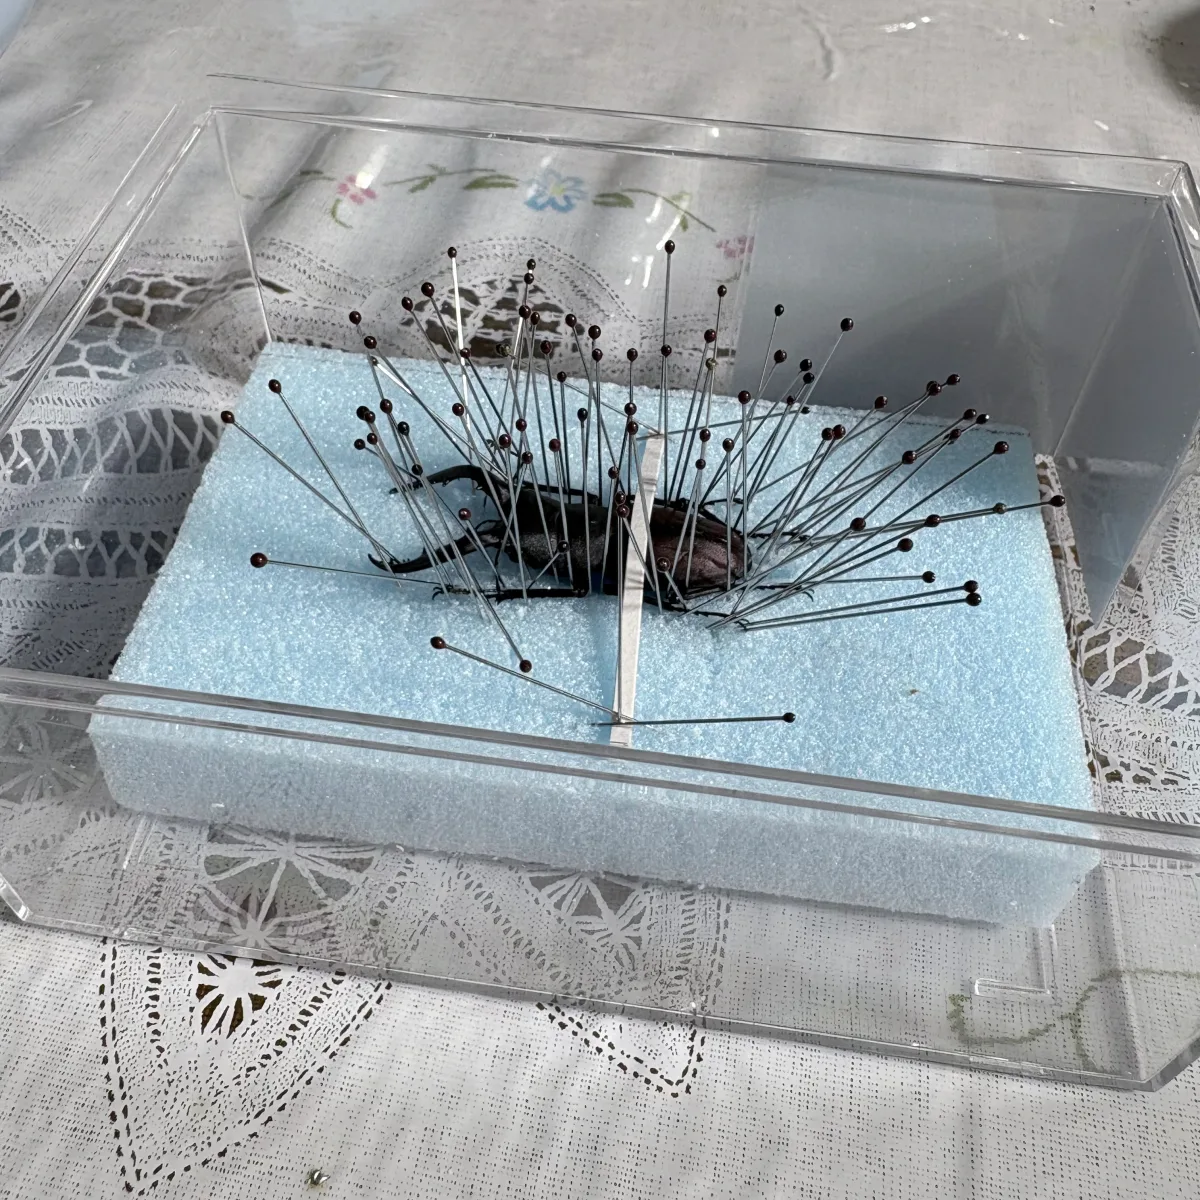
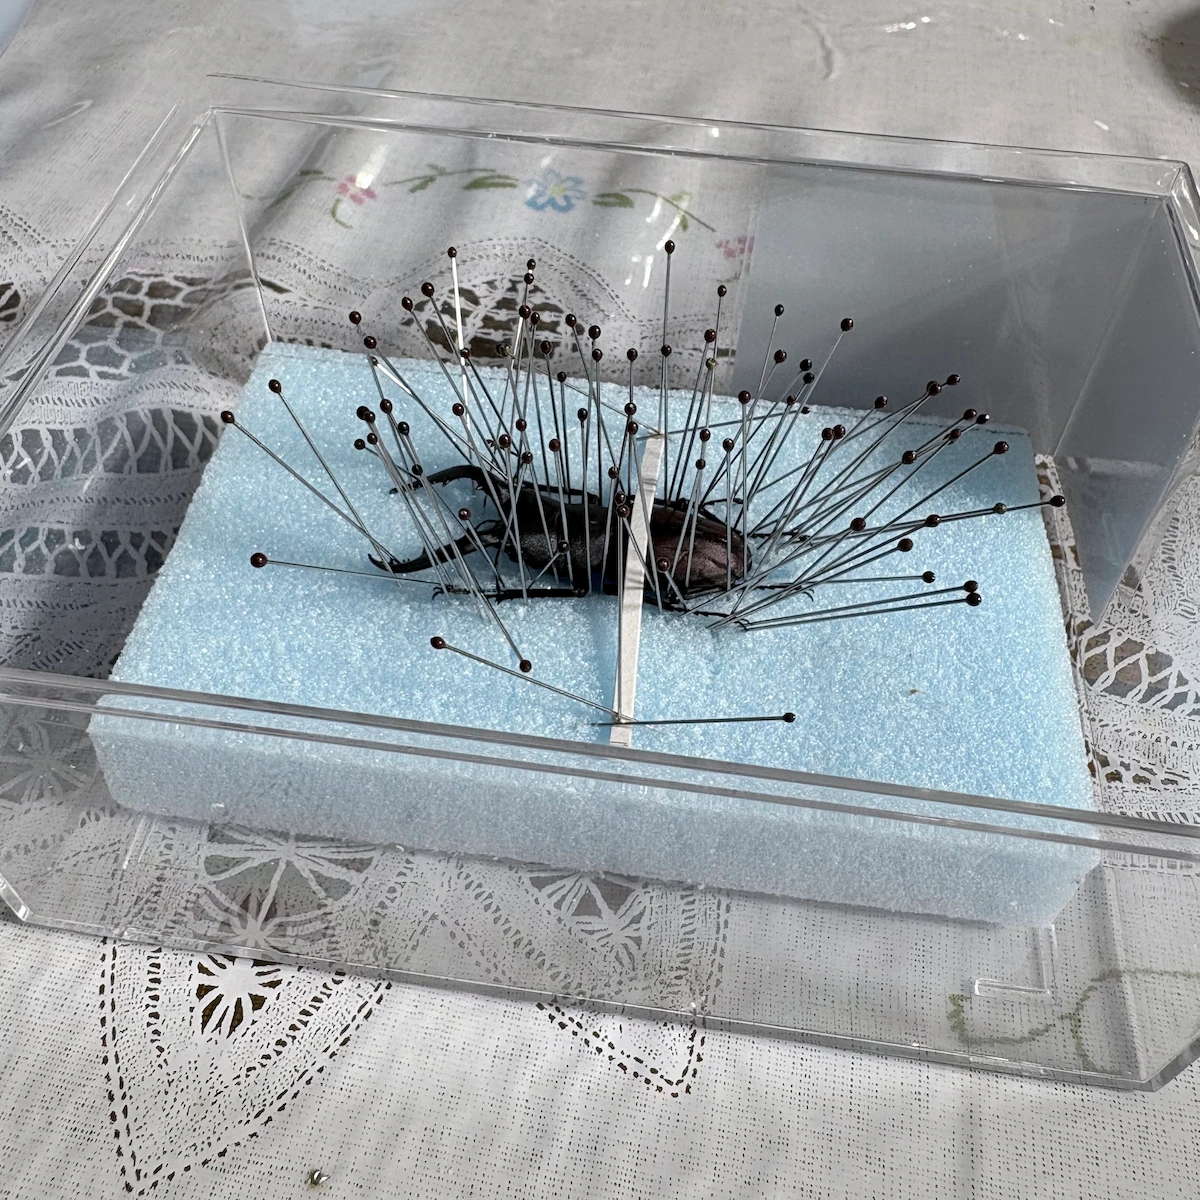
Add beetle comparison card and update drying photo

diff --git a/public/index.html b/public/index.html
@@ -61,8 +61,8 @@
       </a>
       <a class="home-guide-card" href="intermediate.html">
         <div class="card-heading"><h3>もっとくわしく</h3></div>
-        <figure class="media-slot media-slot--card" data-media-slot="card-intermediate" data-media-state="empty" style="--media-ratio:800/450" aria-hidden="true">
-<div class="media-surface"><div class="media-placeholder"><span class="media-placeholder-label">甲虫の写真</span><span class="media-placeholder-note">写真スペース</span></div></div>
+        <figure class="media-slot media-slot--card" data-media-slot="card-intermediate" data-media-state="image" style="--media-ratio:1600/1200" aria-hidden="true">
+<div class="media-surface"><img src="images/home/card-intermediate.webp" alt="形や色の異なる四体の甲虫標本を並べた写真" width="1600" height="1200" loading="lazy" decoding="async" style="object-position:50% 50%" /><div class="media-placeholder" hidden><span class="media-placeholder-label">甲虫の写真</span><span class="media-placeholder-note">写真スペース</span></div></div>
 
 </figure>
         <p>足や触角の配置、見せ方の工夫。次の制作に生かしたい人へ。</p><span class="card-arrow" aria-hidden="true">→</span>
